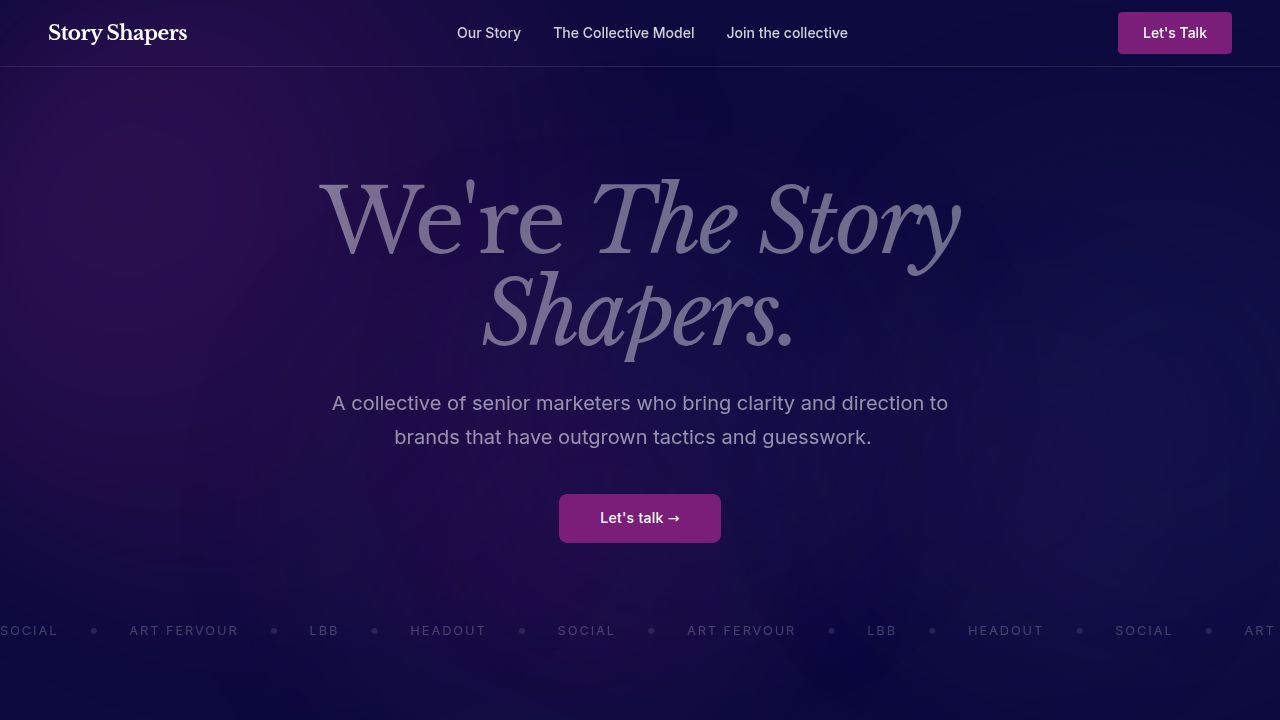
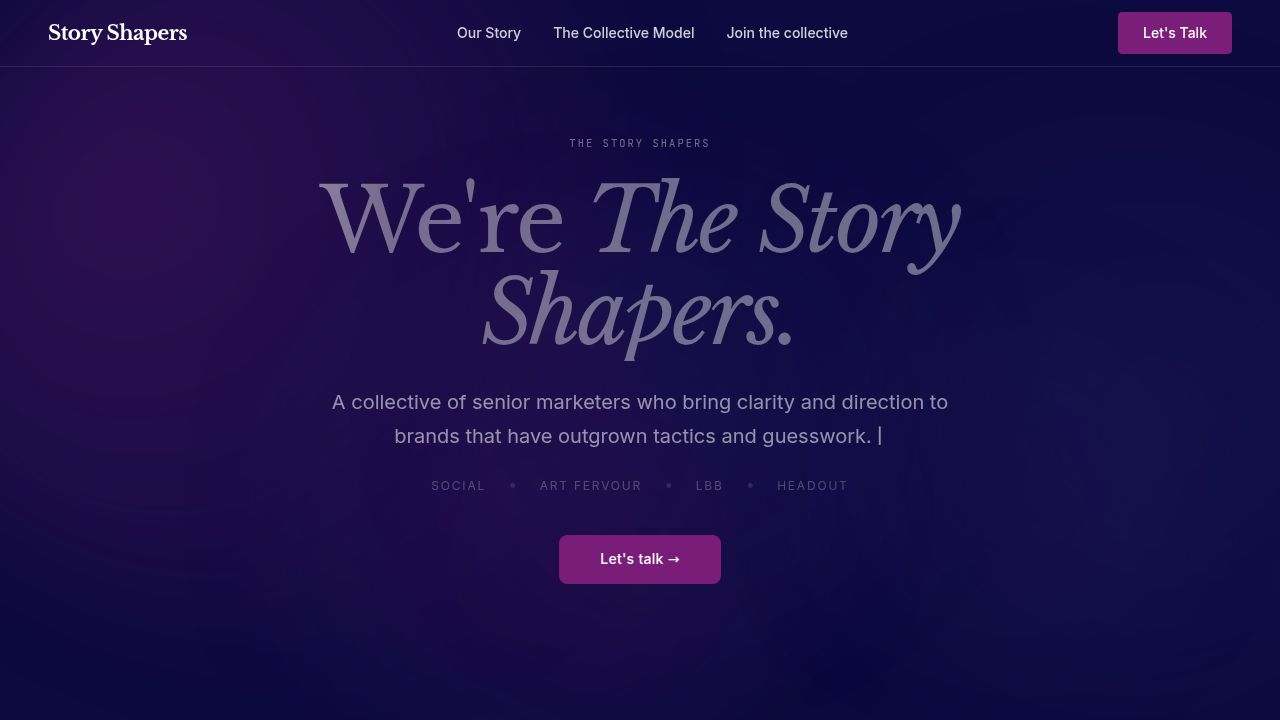
Revert hero section to centered layout with a prominent call-to-action button
Reverts the Hero section's layout to a centered alignment and restores the original CTA button style, while preserving recent additions like gradient animations and the company ticker.

Replit-Commit-Author: Agent
Replit-Commit-Session-Id: c2a95273-a9d5-44ce-9508-46a79df57ec2
Replit-Commit-Checkpoint-Type: full_checkpoint
Replit-Commit-Event-Id: 62234b0c-1722-4595-ba75-6c764a051985
Replit-Commit-Screenshot-Url: https://storage.googleapis.com/screenshot-production-us-central1/c6ba7a26-e271-4d7a-8513-47016bca494b/c2a95273-a9d5-44ce-9508-46a79df57ec2/wIPNLH6
Replit-Helium-Checkpoint-Created: true

diff --git a/client/src/components/home/Hero.tsx b/client/src/components/home/Hero.tsx
@@ -4,7 +4,7 @@ import { Link } from "wouter";
 export function Hero() {
   return (
     <section
-      className="relative flex items-center overflow-hidden"
+      className="relative flex items-center justify-center overflow-hidden"
       style={{
         backgroundColor: "#0C0A3E",
         minHeight: "100vh",
@@ -228,7 +228,7 @@ export function Hero() {
         }
       `}</style>
 
-      <div className="relative w-full" style={{ maxWidth: "1200px" }}>
+      <div className="relative max-w-[900px] mx-auto text-center">
         <motion.div
           initial={{ opacity: 0, y: 30 }}
           animate={{ opacity: 1, y: 0 }}
@@ -252,8 +252,8 @@ export function Hero() {
             className="hero-gradient-sweep"
             style={{
               fontFamily: "'Libre Baskerville', serif",
-              fontSize: "clamp(3.5rem, 10vw, 8rem)",
-              lineHeight: 1,
+              fontSize: "clamp(2.5rem, 7vw, 5.5rem)",
+              lineHeight: 1.05,
               letterSpacing: "-0.03em",
               fontWeight: 400,
               marginBottom: "1.5rem",
@@ -281,7 +281,8 @@ export function Hero() {
             fontSize: "clamp(1rem, 1.8vw, 1.25rem)",
             lineHeight: 1.7,
             color: "rgba(255, 255, 255, 0.55)",
-            maxWidth: "580px",
+            maxWidth: "680px",
+            margin: "0 auto",
             marginBottom: "1.5rem",
           }}
           data-testid="text-hero-subhead"
@@ -302,7 +303,7 @@ export function Hero() {
           initial={{ opacity: 0 }}
           animate={{ opacity: 1 }}
           transition={{ duration: 1, delay: 0.3 }}
-          className="flex items-center gap-6 flex-wrap"
+          className="flex items-center justify-center gap-6 flex-wrap"
           style={{ marginBottom: "2.5rem" }}
           data-testid="ticker-companies"
         >
@@ -334,27 +335,27 @@ export function Hero() {
         >
           <Link
             href="/contact#talk"
-            className="inline-flex items-center gap-2 transition-all duration-200 group"
+            className="inline-block font-medium text-sm transition-all duration-200"
             style={{
+              backgroundColor: "#7B1E7A",
+              color: "#FFFFFF",
+              padding: "0.85rem 2.5rem",
+              borderRadius: "8px",
+              border: "1px solid #7B1E7A",
               fontFamily: "'Inter', sans-serif",
-              fontSize: "1rem",
-              color: "rgba(255, 255, 255, 0.7)",
-              letterSpacing: "0.01em",
-              textDecoration: "none",
-              borderBottom: "1px solid transparent",
+              letterSpacing: "0.02em",
             }}
             data-testid="button-lets-talk"
             onMouseEnter={(e) => {
-              e.currentTarget.style.color = "#FFFFFF";
-              e.currentTarget.style.borderBottomColor = "rgba(255,255,255,0.4)";
+              e.currentTarget.style.backgroundColor = "#9B3E9A";
+              e.currentTarget.style.borderColor = "#9B3E9A";
             }}
             onMouseLeave={(e) => {
-              e.currentTarget.style.color = "rgba(255, 255, 255, 0.7)";
-              e.currentTarget.style.borderBottomColor = "transparent";
+              e.currentTarget.style.backgroundColor = "#7B1E7A";
+              e.currentTarget.style.borderColor = "#7B1E7A";
             }}
           >
-            Let's talk
-            <span style={{ fontSize: "1.1rem", transition: "transform 0.2s ease" }} className="group-hover:translate-x-1 inline-block">→</span>
+            Let's talk &rarr;
           </Link>
         </motion.div>
       </div>
